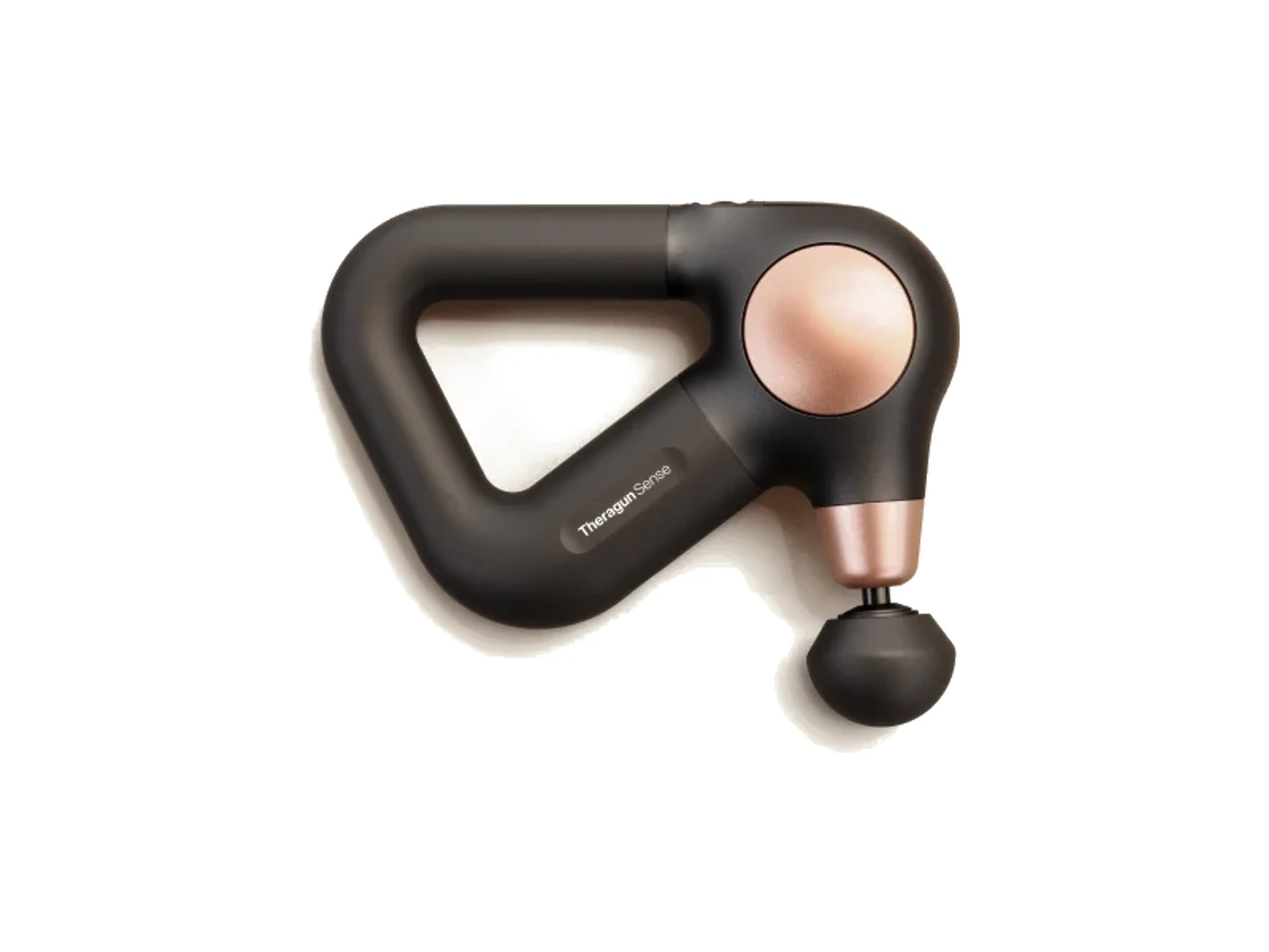
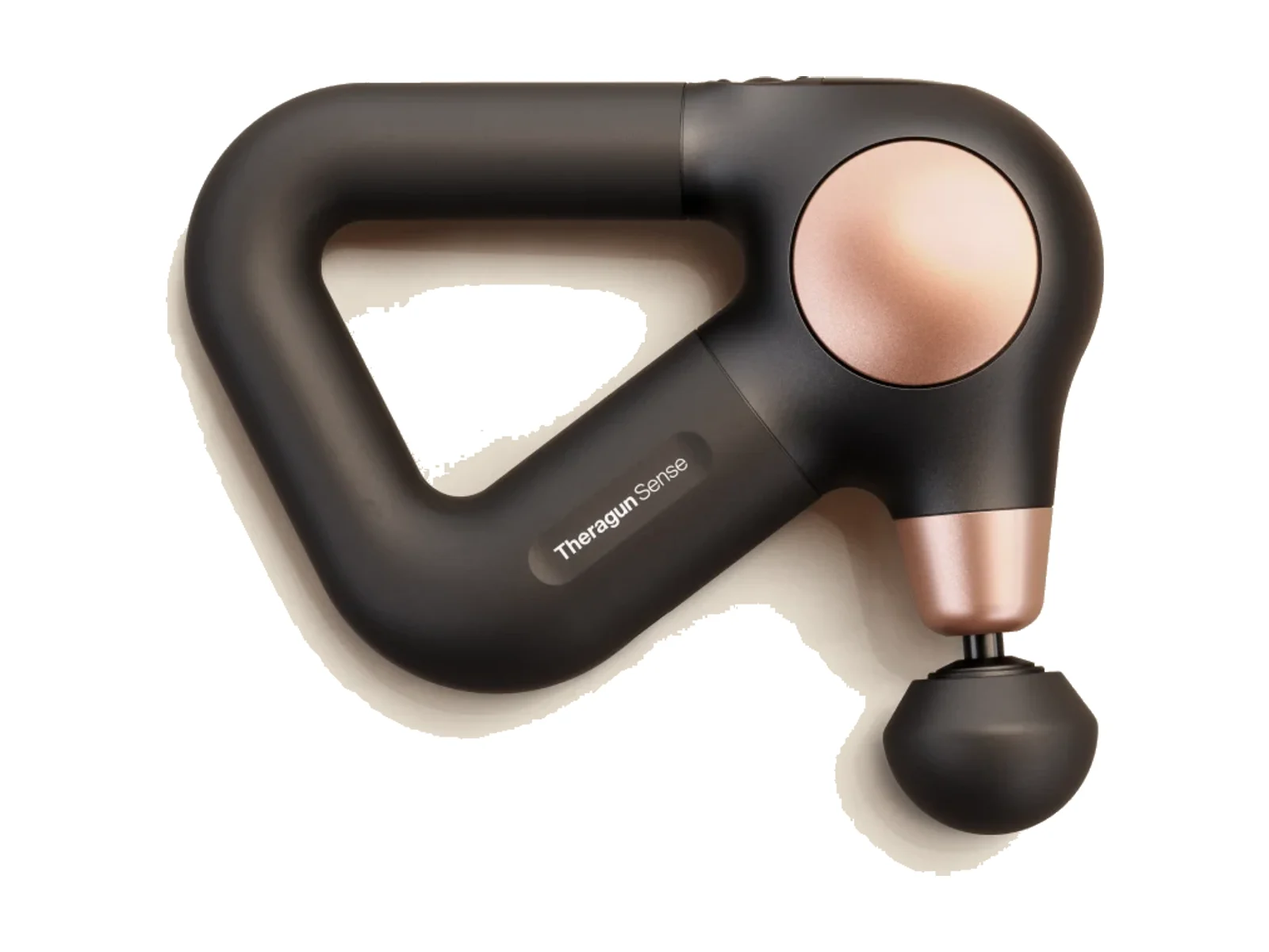
Official photos for every product on the site; fix two mismatched links
A full audit of every entry against what its Amazon.es link sells
(listing titles and variants read as text; no Amazon images fetched).

Live site:
- Face sunscreen linked the SPF 30 fluid (B0B5273DN1) while the page
  and photo say SPF 50: now B086VR76TB, Altruist Face Fluid SPF 50.
- MacBook Pro's code (B0GR1NZFNK) now redirects to the silver model:
  now B0GR1FQGHV, Space Black, M5 Pro, 24 GB, 1 TB, Spanish keyboard.
- Theragun photo replaced with Therabody's 2nd-generation shot at
  1424 px (badge removed, backdrop whitened); hero picture rebuilt.
- The iWarmbase TENS unit goes back to draft: the brand has no website
  and sells only on Amazon, so no allowed photo exists.

Drafts: official photos for seven (BLACKROLL x2, Scholl, Hyperice,
Hydro Flask white, DIAN Marsella white, and one picture of the three
laptop picks from Lenovo, ASUS and Apple). The foam roller's code was
the softer BLACKROLL Med: now B01D1V69X6, the Standard 45 in black.

The preflight now fails any published entry without a photo, the admin
says so, and photo credits use the entry's brand field.

Claude-Session: https://claude.ai/code/session_01LJzcezH7ypu3YQrJLWVmbd

diff --git a/scripts/photos.ts b/scripts/photos.ts
@@ -12,7 +12,7 @@
  * Only the brand's official product photos or Aron's own. Never an image saved
  * from Amazon: the Associates agreement forbids copying or storing them.
  *
- * The credit defaults to the brand (the first word of the entry's `product`).
+ * The credit defaults to the entry's `brand` (or, without one, the first word of its `product`).
  * Override it in photos-inbox/credits.json, e.g. { "tens-unit": "" } for one
  * of Aron's own photos, which carries no credit.
  */
@@ -101,8 +101,8 @@ for (const file of files) {
     failed++;
     continue;
   }
-  const data = parseYaml(match[1]) as { product?: string };
-  const credit = slug in credits ? credits[slug] : (data.product ?? "").split(/\s+/)[0];
+  const data = parseYaml(match[1]) as { product?: string; brand?: string };
+  const credit = slug in credits ? credits[slug] : (data.brand ?? (data.product ?? "").split(/\s+/)[0]);
   if (credit && AMAZON_VARIANT.test(credit)) {
     console.log(`skip  ${file}: images from Amazon aren't allowed`);
     failed++;

diff --git a/scripts/preflight.ts b/scripts/preflight.ts
@@ -187,6 +187,8 @@ for (const file of entryFiles) {
   if (PRICE.test(body) || strings.some((s) => PRICE.test(s))) problems.push("mentions a price or currency (Amazon forbids static prices)");
   if (AMAZON_URL.test(body)) problems.push("links to Amazon from the body (only amazon.ts builds Amazon links)");
   if (/!\[/.test(body)) problems.push("has an image in the body (own photos only, via <Picture>)");
+  // Every product on the site shows its real photo: the maker's official image or Aron's own.
+  if (!data.image) problems.push("no product photo (the maker's official image or Aron's own; add it with npm run photos)");
   if (data.image && !/^\.\/images\/[^/]+\.(webp|jpe?g|png|avif)$/i.test(data.image)) {
     problems.push(`image must be a photo stored in ./images/, not ${data.image} (own or manufacturer photos only)`);
   }

diff --git a/src/pages/admin/config.yml.ts b/src/pages/admin/config.yml.ts
@@ -135,7 +135,7 @@ const products = {
       public_folder: "./images",
       choose_url: false,
       accept: "image/jpeg,image/png,image/webp,image/heic,image/avif",
-      hint: "Your own photo, or the brand's official product photo from its own website or press kit (then fill in Photo credit). Never an image saved from Amazon: its rules forbid it. Check the photo shows the exact model and colour. Without a photo the site shows a drawing.",
+      hint: "Your own photo, or the brand's official product photo from its own website or press kit (then fill in Photo credit). Never an image saved from Amazon: its rules forbid it. Check the photo shows the exact model and colour. A product can't be published without one: the deploy check stops it.",
     },
     {
       name: "imageCredit",

diff --git a/docs/BRIEF.md b/docs/BRIEF.md
@@ -40,7 +40,7 @@ The goal for launch is a site that passes Amazon's review: at least ten genuine,
 
 ### Built and verified
 
-A production build contains home, `/kit/` (filterable list), one page per category that has a published entry, one page per published entry, `/disclosure/`, `/privacy/` and `/404`, plus `robots.txt` and a sitemap. `/apartment/` is only built while the calendar is switched on. With the calendar off and the sixteen entries published so far, the preflight counts 28 HTML pages (the admin included) and 32 Amazon links; with all twenty-six published it will be 38 pages and 53 links. `astro check` reports 0 errors, 0 warnings, 0 hints.
+A production build contains home, `/kit/` (filterable list), one page per category that has a published entry, one page per published entry, `/disclosure/`, `/privacy/` and `/404`, plus `robots.txt` and a sitemap. `/apartment/` is only built while the calendar is switched on. With the calendar off and the fifteen entries published so far, the preflight counts 27 HTML pages (the admin included) and 30 Amazon links; with all twenty-six published it will be 38 pages and 53 links. `astro check` reports 0 errors, 0 warnings, 0 hints.
 
 With the calendar off, the build ships no JavaScript except the 0.6 KB `/kit/` filter: `astro.config.ts` only loads Preact and injects `src/routes/apartment.astro` when `features.apartment` is true, and the privacy page only describes Supabase processing while the calendar exists.
 
@@ -49,13 +49,13 @@ Catalogue (category → entries):
 | Category | Slug | Entries |
 | --- | --- | --- |
 | On your feet | `on-your-feet` | anti-fatigue-mat, compression-socks, insoles, work-shoes, **xiaomi-smart-band-10** |
-| Recovery | `recovery` | **tens-unit**, **theragun-sense**, massage-gun, foam-roller, foot-massage-ball |
+| Recovery | `recovery` | tens-unit, **theragun-sense**, massage-gun, foam-roller, foot-massage-ball |
 | Carry and charge | `carry` | **power-bank**, **macbook-neo**, **macbook-pro-14**, **lunchbox**, laptop (three picks), water-bottle, work-backpack |
 | At home | `at-home` | **espresso-machine**, **coffee-canister**, **multi-cooker**, **usb-power-strip** |
 | Peace and quiet | `quiet` | **loop-earplugs**, **sony-wh-1000xm6**, **sony-wh-1000xm5** |
 | Out in the sun | `sun` | **sunscreen**, **face-sunscreen** |
 
-Bold entries are published (16 of 26, 29 September 2026). Aron chose the thirteen new products (the Theragun Sense, the MacBooks, the headphones, the earplugs and the bento box came later the same day) and the iWarmbase TENS unit himself and opened their amazon.es links; they were written as researched entries and published the same day. The TENS entry was switched from an owned draft (waiting for Aron's words) to a researched entry for the iWarmbase unit; if it is the one he uses, his words turn it back into an owned entry (the old prompts are in git history). Each category has a colour tone (`tone` in `catalogue.ts`; the tones are listed in `TONES` in `src/config/schema.ts`, and each needs its `.tone-*` block and drawing gradients in `global.css`). Aron called the bento box a microwavable lunch box; it's stainless steel, so the entry says plainly it must not go in the microwave. The Xiaomi Smart Band 10 (29 September 2026) sits under On your feet because it counts the steps of a shift; it's `health: true` because it shows heart-rate, blood-oxygen and sleep readings, and its health note repeats Xiaomi's warning that it isn't a medical device.
+Bold entries are published (15 of 26, 3 October 2026). The TENS unit was published on 29 September and taken off the site on 3 October at Aron's request that every product shown has an official photo: iWarmbase has no website and sells only through Amazon, so no allowed photo exists. A photo of Aron's own unit brings it back. Aron chose the thirteen new products (the Theragun Sense, the MacBooks, the headphones, the earplugs and the bento box came later the same day) and the iWarmbase TENS unit himself and opened their amazon.es links; they were written as researched entries and published the same day. The TENS entry was switched from an owned draft (waiting for Aron's words) to a researched entry for the iWarmbase unit; if it is the one he uses, his words turn it back into an owned entry (the old prompts are in git history). Each category has a colour tone (`tone` in `catalogue.ts`; the tones are listed in `TONES` in `src/config/schema.ts`, and each needs its `.tone-*` block and drawing gradients in `global.css`). Aron called the bento box a microwavable lunch box; it's stainless steel, so the entry says plainly it must not go in the microwave. The Xiaomi Smart Band 10 (29 September 2026) sits under On your feet because it counts the steps of a shift; it's `health: true` because it shows heart-rate, blood-oxygen and sleep readings, and its health note repeats Xiaomi's warning that it isn't a medical device.
 
 Situation tags: `long-shifts`, `after-work`, `commute`, `travel`, `at-home`.
 
@@ -70,7 +70,7 @@ Performance, measured by the preflight from the build with env vars set:
 
 Design (3 October 2026, third revamp at Aron's request: "super slick and modern", after he found the second one still blocky): the system font stack puts San Francisco first, so Apple devices use their built-in font; everyone else gets Inter (variable, Latin subset, self-hosted from `src/assets/fonts/`). **Light only** (Aron's choice, 28 September 2026: `theme.ts` emits only the light palette). Store-style and photo-led, with no box inside a box. Every entry has a `brand` and a short `name` ("Apple" / "MacBook Neo"), which cards and headings show; the full `product` name stays on the product page under the title. The home page (reworked 3 October 2026, after Aron found the hero "horrible" with too much text and asked for "a collection of items in one image" and a clean, uplifting feel) opens with only the headline, one short line and one button over a morning-sky gradient (pale blue into a warm sunrise glow), then the collection picture: eight products cut out of their photos and grouped like a shop's family shot, rising gently into place. Phones get a squarer arrangement of six. Then a sticky glass row of category chips (plain anchor links). One shelf per category follows, each just its name and a "See all" link: cards on the home page are white tiles with the brand in small capitals, the short name and the photo sitting straight on the tile over a faint wash of the category colour (category and list pages also show the need under the name). Shelves swipe sideways on phones and are a four-column grid on desktop; a shelf of one to three products uses wide cards (words beside the picture) so the row is always full. After the second shelf, the spotlight (`featured: true`, ticked in the admin) is a full-width band in its category colour (name, the need and a button); then three "why" points with hairlines, not cards. Category and list pages open with a very large title over a wash of colour, then the same cards (two per row on phones). Product pages: the picture on a white stage (sticky on desktop), brand, short name, the need, the full model name, ticked facts between hairlines and a large pill buy button; the drawback is set as a large pull quote; the write-up folds into hairline rows (native `<details>`, sliding open where the browser supports it) and the health note is open by default. Sections fade up on scroll with CSS scroll-driven animations; all motion stops for people who prefer reduced motion. Catalogue pages still ship no JavaScript.
 
-Pictures: the entry's photo when it has one (`image`, stored in `kit/images/`, served as AVIF/WebP in three sizes by `<Picture>`, shown contained on a light panel with the white background blended away; `imageCredit` names the brand under manufacturer photos), otherwise a drawing of that kind of product (`src/components/art.ts`, inline SVG shaded with per-tone gradients defined once in `Base.astro`, labelled "Illustration" on the product page), otherwise the category icon. Photos are Aron's own or the manufacturer's official images from the brand's own site or press kit (Aron's decision, 28 September 2026), self-hosted and credited. Amazon's product photos are never used: the Associates agreement forbids copying or storing them, and the only permitted route is the Product Advertising API, which Amazon opens once the account has qualifying sales. The preflight rejects remote images and Amazon credits.
+Pictures: the entry's photo when it has one (`image`, stored in `kit/images/`, served as AVIF/WebP in three sizes by `<Picture>`, shown contained on a light panel with the white background blended away; `imageCredit` names the brand under manufacturer photos), otherwise a drawing of that kind of product (`src/components/art.ts`, inline SVG shaded with per-tone gradients defined once in `Base.astro`, labelled "Illustration" on the product page), otherwise the category icon. Since 3 October 2026 (Aron: "make sure to use product images for all items") the drawings only show for drafts in `npm run dev`: the preflight fails any published entry without a photo, so every product on the live site shows its real photo. Photos are Aron's own or the manufacturer's official images from the brand's own site or press kit (Aron's decision, 28 September 2026), self-hosted and credited. Amazon's product photos are never used: the Associates agreement forbids copying or storing them, and the only permitted route is the Product Advertising API, which Amazon opens once the account has qualifying sales. The preflight rejects remote images and Amazon credits.
 
 The collection picture: `npm run hero` (`scripts/hero.ts`) reads `src/profiles/aron/hero/hero.json`, which lists the products for the wide and square layouts from back to front with their positions and sizes, cuts each entry's photo out of its white background (with per-product settings for photos shot on a surface, like the Theragun's cast shadow), adds a soft shadow, centres the group and writes `hero/collection-wide.webp` and `hero/collection-square.webp` (transparent). Re-run it after changing `hero.json` or one of those products' photos. The preflight fails if any product in it isn't published. The credit line under the picture names the makers.
 
@@ -103,9 +103,9 @@ Owner row seeded: `arononeillwork@gmail.com`, `is_owner = true` (Aron to confirm
 ### Not done
 
 - Legal details: Easy Beans Coffee, S.L., NIF `B27576347`, C. Pizarro, 8, 29670 San Pedro de Alcántara, easybeanscafe@gmail.com (all confirmed by Aron, 28 September 2026). Still missing: the Registro Mercantil entry (tomo, folio, hoja) from the escritura, which LSSI-CE art. 10.1.b expects on a company's legal notice. The preflight warns until `legal.registry` is set; the privacy page shows it once it is
-- If the iWarmbase is the TENS unit Aron uses, two or three lines from him turn that entry into an owned one
+- If the iWarmbase is the TENS unit Aron uses, two or three lines from him turn that entry into an owned one, and a photo of his unit puts it back on the site (it's a draft until then; see Photos below)
 - Ten researched entries (the original picks other than the power bank) are written and pass every content check but stay `draft: true` until Aron opens their amazon.es links with `docs/ASIN-CHECK.md`; backups and sources are in `docs/research/2026-09-26-products.md`
-- Photos (3 October 2026): 15 of the 16 live entries show the manufacturer's official photo, fetched by Claude from each brand's own site after Aron opened the environment's network access. The two Sony headphones come from Sony Japan's press releases (sony.jp, 13 May 2022 and 16 May 2025), cropped to the black model, because Sony's European, US and other regional sites refuse automated downloads; the XM6 original is small (about 260 × 390 px), so a larger black shot saved from sony.es is welcome. Both are black: Aron to confirm his Amazon.es links sell black. Still on a drawing: the iWarmbase TENS unit (no brand site; needs Aron's own photo). The Therabody shot is the brand's only plain product image and is small (about 410 px wide), so a sharper one is welcome. Xiaomi's official image shows the band in four colours with the black one in front; it has no black-only shot. The Altruist body sunscreen photo is the 1 litre pump bottle: Aron to confirm that's the size his Amazon.es link sells. Photos Aron collected on 3 October came from Amazon.es listings (Amazon's image sizes and Spanish listing graphics), so none were used
+- Photos (3 October 2026, full audit): every one of the 15 live entries shows the maker's official photo, checked against what its Amazon.es link actually sells (Claude read each listing's title and selected variant as text; no Amazon images were fetched). The audit found and fixed two live mismatches: the face sunscreen link (B0B5273DN1) sold the SPF 30 fluid while the page and photo said SPF 50, so it now links B086VR76TB, Altruist's Face Fluid SPF 50; and the MacBook Pro link (B0GR1NZFNK) now redirects to the silver model, so it links B0GR1FQGHV, the Space Black M5 Pro, 24 GB, 1 TB, Spanish keyboard the page describes. It also confirmed the Sony XM5 and XM6, Loop and Xiaomi links are black, the bento box lavender, the MacBook Neo indigo and the body sunscreen the 1 litre bottle. The Theragun photo was replaced with Therabody's larger 2nd-generation shot (1424 px; badge removed, cream backdrop turned white). The Sony photos come from Sony Japan's press releases because Sony's other sites refuse automated downloads; the XM6 original is small (about 260 × 390 px). Xiaomi publishes no black-only shot, so its photo shows four colours with the black band in front. Drafts: seven of the ten now have official photos too (BLACKROLL Standard 45 and Blackbox Mini, Scholl GelActiv Work, Hyperice Hypervolt Go 3, Hydro Flask 24 oz in white, DIAN Marsella in white, and one picture of the three laptop picks combined from Lenovo's, ASUS's and Apple's images in the listed colours). The foam roller's link pointed at the softer BLACKROLL Med, so it now links B01D1V69X6, the Standard 45 in black the entry describes. Still without an allowed photo: the anti-fatigue mat (Sky Solutions' website redirects to its Amazon store, so its only images are Amazon's), the Relaxsan 830 socks (Relaxsan only has lifestyle shots of people wearing them), the Thule Paramount backpack (the link sells the 2021 Timberwolf model, 3204490, which Thule's site no longer shows) and the iWarmbase TENS unit. Each needs Aron's own photo or a switch to a product with official images before it can be published. Photos Aron collected on 3 October came from Amazon.es listings (Amazon's image sizes and Spanish listing graphics), so none were used
 - Calendar (deferred): the Supabase sign-up hook, URL configuration and SMTP are not yet set in the dashboard, and the live magic-link round trip has never been tested. None of this blocks launch while `features.apartment` is false
 
 ## 4. Repository map

diff --git a/docs/ASIN-CHECK.md b/docs/ASIN-CHECK.md
@@ -1,6 +1,6 @@
 # ASIN check for Aron
 
-The cloud container that researched these products couldn't open amazon.es, so nobody has yet seen these pages resolve. The brief's rule is to never ship an ASIN nobody has seen resolve. Open each link on your phone or laptop and check:
+The cloud container that researched these products couldn't open amazon.es at first. Since 3 October 2026 it can read listings as text (titles and selected variants; never Amazon's images), and every link below was checked that day: the notes say what each one actually sells. Still open each draft's link yourself before it's published. The brief's rule is to never ship an ASIN nobody has seen resolve. Open each link on your phone or laptop and check:
 
 1. It's the product named here (brand, model, size or variant).
 2. It's in stock and sold or shipped by the brand or by Amazon, not a random reseller.
@@ -10,23 +10,23 @@ If it's right, tell Claude (or set `draft: false` in the entry file yourself). I
 
 | Entry file | Product | Link | Also check |
 | --- | --- | --- | --- |
-| `anti-fatigue-mat.md` | Sky Solutions Anti-Fatigue Mat, 19 mm, 50 x 99 cm | https://www.amazon.es/dp/B00M8O122G | |
-| `compression-socks.md` | Relaxsan 830, 18-22 mmHg, X-Static | https://www.amazon.es/dp/B01FZQZYNQ | Size picker shows all sizes |
+| `anti-fatigue-mat.md` | Sky Solutions Anti-Fatigue Mat, 19 mm, 50 x 99 cm | https://www.amazon.es/dp/B00M8O122G | Amazon labels this code "60 x 120 cm, black" but lists the item as 99 x 51 cm: check which size the page sells. No allowed photo: the brand's website redirects to its Amazon store |
+| `compression-socks.md` | Relaxsan 830, 18-22 mmHg, X-Static | https://www.amazon.es/dp/B01FZQZYNQ | Size picker shows all sizes. No studio photo: Relaxsan only publishes lifestyle shots of the 830 |
 | `insoles.md` | Scholl GelActiv Work (men's 40-46.5) | https://www.amazon.es/dp/B07FCCDN45 | |
-| `work-shoes.md` | DIAN Marsella, EN ISO 20347 SRC | https://www.amazon.es/dp/B09253K4MH | |
+| `work-shoes.md` | DIAN Marsella, EN ISO 20347 SRC | https://www.amazon.es/dp/B09253K4MH | Opens on white (also sold in black); the photo shows white |
 | `massage-gun.md` | Hyperice Hypervolt Go 3 | https://www.amazon.es/dp/B0G82W9ZZK | Listing says 3 speeds; Hyperice says 5 (entry uses 5) |
-| `foam-roller.md` | BLACKROLL Standard 45, medium | https://www.amazon.es/dp/B01CEIGD06 | Medium ("Standard") hardness is selectable |
+| `foam-roller.md` | BLACKROLL Standard 45, medium, black | https://www.amazon.es/dp/B01D1V69X6 | Switched 3 October 2026: the old code (B01CEIGD06) was the softer BLACKROLL Med |
 | `foot-massage-ball.md` | BLACKROLL Blackbox Mini set | https://www.amazon.es/dp/B01M7XPBJM | |
 | `power-bank.md` | UGREEN Nexode 25,000 mAh 145 W | https://www.amazon.es/dp/B0BJQ7F16T | **Done**: chosen and opened by Aron, 28 September 2026 (replaces the Anker A1383, B0CXDXP8VR, now a backup) |
 | `laptop.md` (pick 1) | Lenovo IdeaPad Slim 3 Gen 10, i5-13420H, 16 GB, 512 GB | https://www.amazon.es/dp/B0GZHZ7HM7 | Spanish keyboard |
 | `laptop.md` (pick 2) | ASUS Zenbook A14 OLED UX3407QA | https://www.amazon.es/dp/B0DVCGC5MW | Spanish keyboard (title is cut off at "QWERTY") |
 | `laptop.md` (pick 3) | MacBook Air 13-inch M5, 16 GB, 512 GB | https://www.amazon.es/dp/B0GR1MZP3L | Spanish, not Portuguese, keyboard |
-| `water-bottle.md` | Hydro Flask Standard Mouth 709 ml, Flex Cap | https://www.amazon.es/dp/B01KXHGWQU | |
-| `work-backpack.md` | Thule Paramount Backpack 27L | https://www.amazon.es/dp/B09FPYMTQ9 | Paramount Backpack, not the Paramount Commuter |
-| `tens-unit.md` | iWarmbase 3-in-1 TENS/EMS/Massage | https://www.amazon.es/dp/B0FJRXMVK9 | **Done**: chosen by Aron, 28 September 2026. Published as researched; if it's the one you use, send a few lines and it becomes "I own this" |
+| `water-bottle.md` | Hydro Flask Standard Mouth 709 ml, Flex Cap | https://www.amazon.es/dp/B01KXHGWQU | This code is white; the photo shows white |
+| `work-backpack.md` | Thule Paramount Backpack 27L | https://www.amazon.es/dp/B09FPYMTQ9 | Paramount Backpack, not the Paramount Commuter. This code is the 2021 model in Timberwolf (3204490), which Thule's site no longer shows, so there's no allowed photo: pick the current model or send your own photo |
+| `tens-unit.md` | iWarmbase 3-in-1 TENS/EMS/Massage | https://www.amazon.es/dp/B0FJRXMVK9 | Chosen by Aron, 28 September 2026. **Off the site since 3 October 2026**: iWarmbase has no website and sells only on Amazon, so there's no allowed photo. A photo of your own unit (and a few lines if it's the one you use) brings it back |
 | `theragun-sense.md` | Therabody Theragun Sense (2nd generation) | https://www.amazon.es/dp/B0FNX9TF9R | **Done**: chosen by Aron, 28 September 2026 |
 | `macbook-neo.md` | Apple MacBook Neo 13-inch, A18 Pro, 512 GB, Touch ID, Indigo | https://www.amazon.es/dp/B0GR6HXPJ7 | **Done**: chosen by Aron, 28 September 2026. Spanish keyboard |
-| `macbook-pro-14.md` | Apple MacBook Pro 14-inch, M5 Pro, 24 GB, 1 TB, Space Black | https://www.amazon.es/dp/B0GR1NZFNK | **Done**: chosen by Aron, 28 September 2026. One search listing showed this code as Silver with a Portuguese keyboard: check the page says Space Black and Spanish keyboard |
+| `macbook-pro-14.md` | Apple MacBook Pro 14-inch, M5 Pro, 24 GB, 1 TB, Space Black | https://www.amazon.es/dp/B0GR1FQGHV | **Done**: chosen by Aron, 28 September 2026. Switched 3 October 2026: the old code (B0GR1NZFNK) now redirects to the silver model. This one is Space Black, Spanish keyboard (Amazon's title says Portuguese for the whole family; the selected keyboard is Spanish) |
 | `loop-earplugs.md` | Loop Experience 2 earplugs | https://www.amazon.es/dp/B0D4DFQTMJ | **Done**: chosen by Aron, 28 September 2026 |
 | `sony-wh-1000xm6.md` | Sony WH-1000XM6 | https://www.amazon.es/dp/B0F2TT8Q7M | **Done**: chosen by Aron, 28 September 2026 |
 | `sony-wh-1000xm5.md` | Sony WH-1000XM5 | https://www.amazon.es/dp/B09Y2MYL5C | **Done**: chosen by Aron, 28 September 2026 |
@@ -36,7 +36,7 @@ If it's right, tell Claude (or set `draft: false` in the entry file yourself). I
 | `coffee-canister.md` | Fellow Atmos Vacuum Canister 1.2 L, glass | https://www.amazon.es/dp/B07NPMNW84 | **Done**: chosen by Aron, 28 September 2026 |
 | `multi-cooker.md` | Ninja Combi 12-in-1 SFP700EU | https://www.amazon.es/dp/B0CZPKSGFV | **Done**: chosen by Aron, 28 September 2026 |
 | `usb-power-strip.md` | VOOMY 100 W USB power strip | https://www.amazon.es/dp/B0D44VR3TY | **Done**: chosen by Aron, 28 September 2026 |
-| `sunscreen.md` | Altruist Sunscreen SPF 50, unscented | https://www.amazon.es/dp/B0CWPH59MQ | **Done**: chosen by Aron, 28 September 2026 |
-| `face-sunscreen.md` | Altruist Face Fluid SPF 50 | https://www.amazon.es/dp/B0B5273DN1 | **Done**: chosen by Aron, 28 September 2026 |
+| `sunscreen.md` | Altruist Sunscreen SPF 50, unscented | https://www.amazon.es/dp/B0CWPH59MQ | **Done**: chosen by Aron, 28 September 2026. The 1 litre bottle, as in the photo |
+| `face-sunscreen.md` | Altruist Face Fluid SPF 50, 50 ml | https://www.amazon.es/dp/B086VR76TB | **Done**: chosen by Aron, 28 September 2026. Switched 3 October 2026: the old code (B0B5273DN1) is the SPF 30 fluid, not the SPF 50 the page describes |
 
 Opening these links yourself is fine. Buying through them doesn't count toward the three qualifying sales: purchases by the company, its owners, staff, friends and family never do.

diff --git a/src/profiles/aron/kit/face-sunscreen.md b/src/profiles/aron/kit/face-sunscreen.md
@@ -13,7 +13,7 @@ highlights:
 image: "./images/face-sunscreen.webp"
 imageCredit: "Altruist"
 experience: researched
-asin: B0B5273DN1
+asin: B086VR76TB
 drawback: "So runny it's easy to pour out too much, and a 50 ml bottle goes quickly at the full amount."
 health: true
 healthNote: "EU guidance for every sunscreen: don't stay too long in the sun even with sunscreen on, keep babies and young children out of direct sunlight, and reapply often, especially after sweating, swimming or towelling. Most people apply far less than the amount the SPF is tested at, so be generous. Keep it out of your eyes, stop using it if it irritates your skin, and ask a pharmacist or doctor first if you have a skin condition or have reacted to sunscreen before."

diff --git a/src/profiles/aron/kit/tens-unit.md b/src/profiles/aron/kit/tens-unit.md
@@ -17,7 +17,7 @@ health: true
 healthNote: "Check the manual before first use. TENS and EMS manufacturers commonly say not to use a unit if you have a pacemaker, implanted defibrillator or other implanted electronic device, a heart condition or epilepsy, or if you are pregnant, without asking a doctor first. Never place pads on the front or sides of the neck, the head, across the chest, or on broken, irritated or numb skin, and don't use it while driving or in water."
 order: 1
 reviewed: 2026-09-28
-draft: false
+draft: true
 ---
 
 ## What it is

diff --git a/src/profiles/aron/kit/foam-roller.md b/src/profiles/aron/kit/foam-roller.md
@@ -10,8 +10,10 @@ highlights:
   - "45 x 15 cm, medium hardness"
   - "EPP foam, about 240 g"
   - "Long enough for the upper back"
+image: "./images/foam-roller.webp"
+imageCredit: "BLACKROLL"
 experience: researched
-asin: B01CEIGD06
+asin: B01D1V69X6
 drawback: "Firm even in medium, and the listing sells several hardnesses, so it's easy to order the wrong one."
 health: false
 order: 3

diff --git a/src/profiles/aron/kit/foot-massage-ball.md b/src/profiles/aron/kit/foot-massage-ball.md
@@ -10,6 +10,8 @@ highlights:
   - "Ball, duo ball and mini roller"
   - "Medium-firm EPP foam"
   - "Small enough for a work bag"
+image: "./images/foot-massage-ball.webp"
+imageCredit: "BLACKROLL"
 experience: researched
 asin: B01M7XPBJM
 drawback: "All three pieces are medium-firm, so there's no softer one to start on if your feet are very tender."

diff --git a/src/profiles/aron/kit/water-bottle.md b/src/profiles/aron/kit/water-bottle.md
@@ -10,6 +10,8 @@ highlights:
   - "Up to 24 hours cold (maker's rating)"
   - "Leakproof Flex Cap"
   - "Fits most cup holders"
+image: "./images/water-bottle.webp"
+imageCredit: "Hydro Flask"
 experience: researched
 asin: B01KXHGWQU
 drawback: "The coating chips if it's dropped, and the narrow mouth is too tight for most ice cubes."

diff --git a/src/profiles/aron/kit/massage-gun.md b/src/profiles/aron/kit/massage-gun.md
@@ -10,6 +10,8 @@ highlights:
   - "Five speeds, stated 55 dB"
   - "About four hours per charge"
   - "About 0.73 kg, USB-C"
+image: "./images/massage-gun.webp"
+imageCredit: "Hyperice"
 experience: researched
 asin: B0G82W9ZZK
 drawback: "Only two heads, and it can stall when you lean in hard on big thigh muscles."

diff --git a/src/profiles/aron/kit/insoles.md b/src/profiles/aron/kit/insoles.md
@@ -10,6 +10,8 @@ highlights:
   - "Gel under the heel and arch"
   - "Trim-to-fit outline"
   - "Men's and women's sizes"
+image: "./images/insoles.webp"
+imageCredit: "Scholl"
 experience: researched
 asin: B07FCCDN45
 drawback: "The arch is soft, so flat feet that need firm support may find it too yielding."
